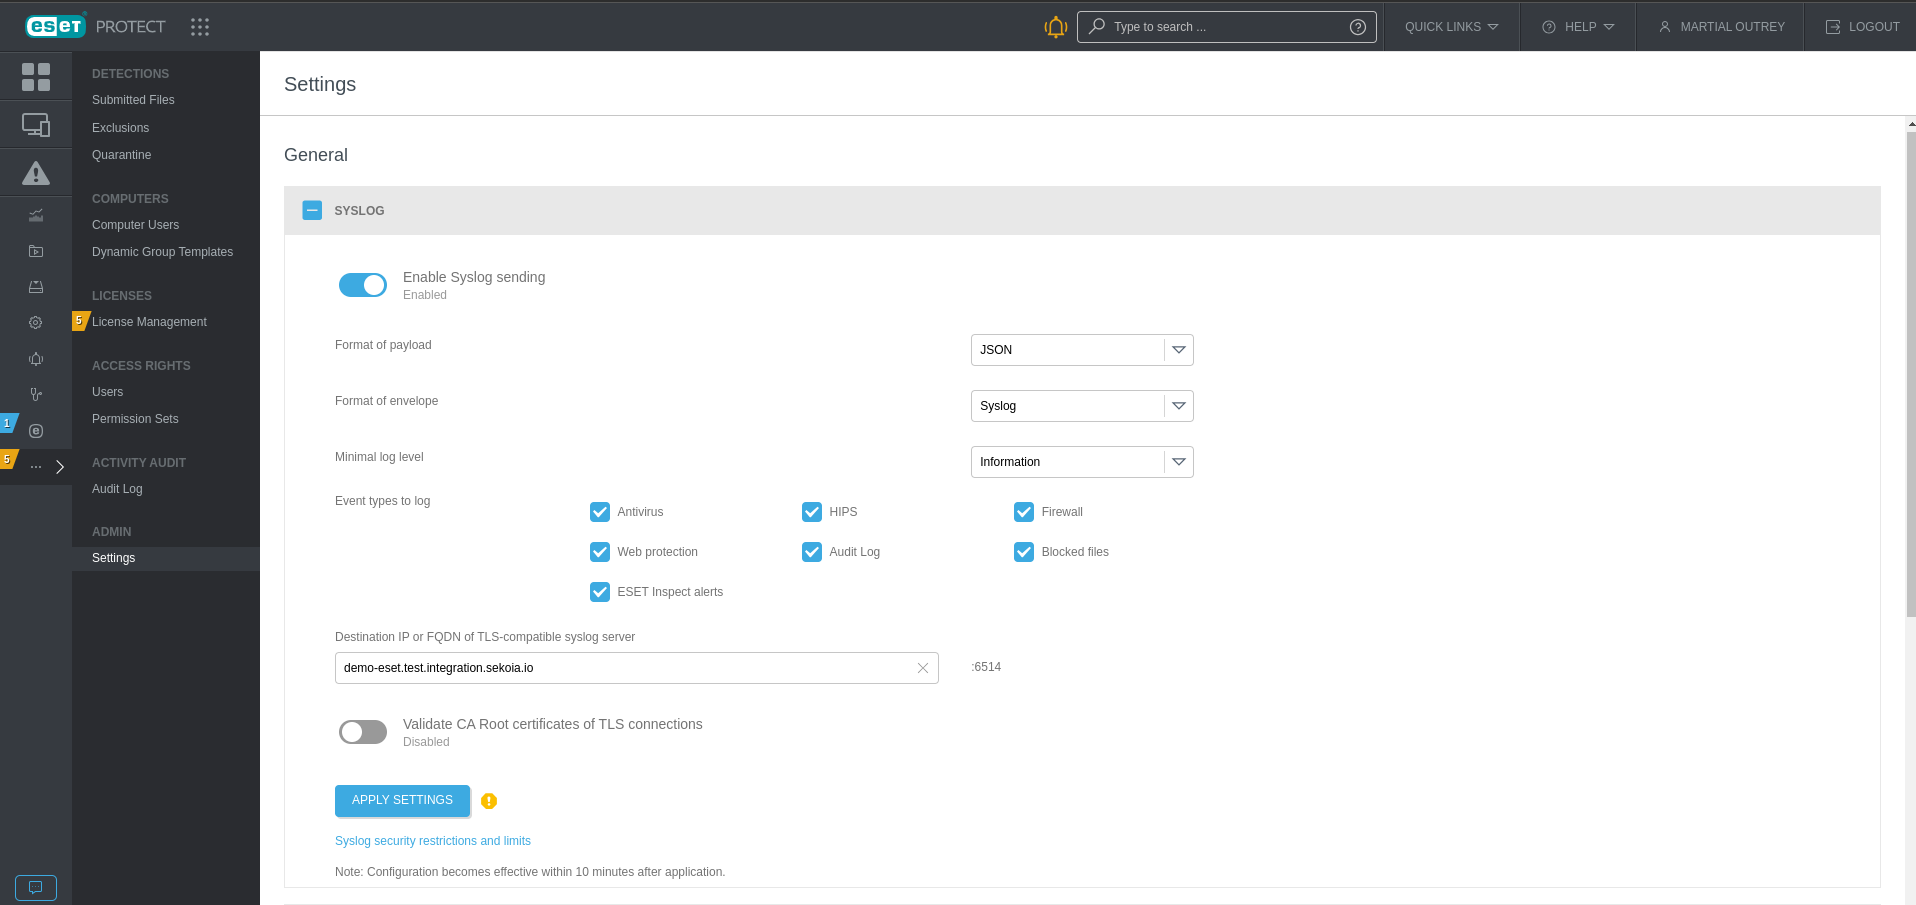
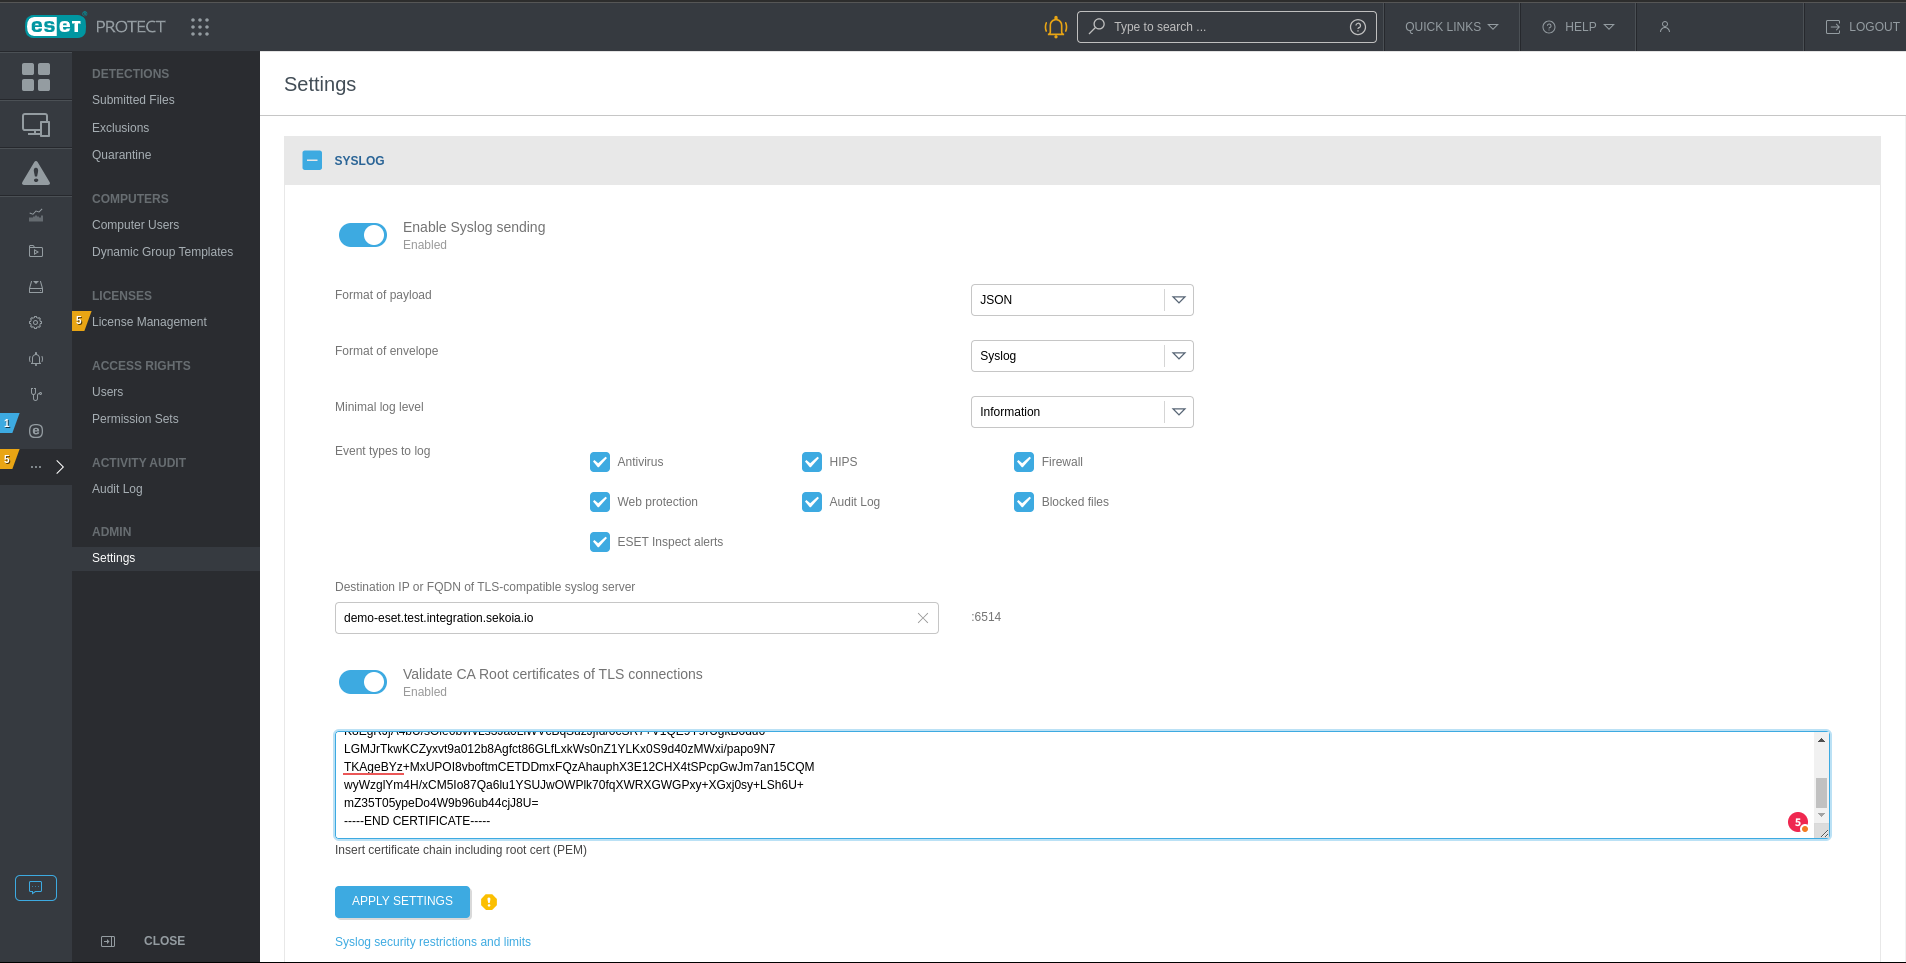
fix(Eset): add the validation of the certificate

diff --git a/docs/xdr/features/collect/integrations/endpoint/eset_protect.md b/docs/xdr/features/collect/integrations/endpoint/eset_protect.md
@@ -71,7 +71,9 @@ To enable Syslog server in ESET Protect, follow the steps below:
 6. Select `Information` as the minimal log level
 7. Check all event types
 8. Type the address of the log concentrator
-9. Click `Apply settings`
+9. Check `Validate CA Root certificates of TLS connections`
+10. Copy the public certificate of the Certificate Authority in the textarea
+11. Click `Apply settings`
 
 ![Advanced Settings](/assets/instructions/eset_protect/cloud_syslog.png)
 
